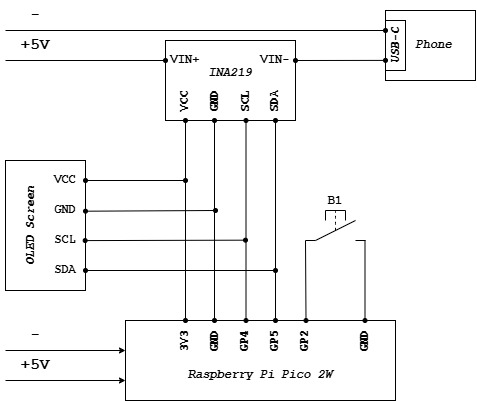
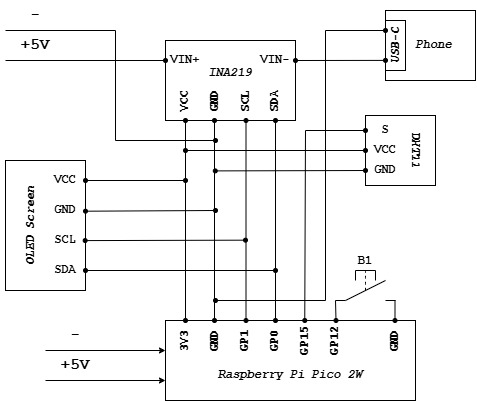
readme update

diff --git a/logging server/server.py b/logging server/server.py
@@ -1,7 +1,7 @@
 import socket
 
 srv = socket.socket()
-srv.bind(("192.168.100.13", 5000))
+srv.bind(("LAPTOP_IP", 5000))
 srv.listen(1)
 conn, addr = srv.accept()
 print(f"Connected: {addr}")

diff --git a/README.md b/README.md
@@ -1,2 +1,111 @@
-# -Characterizing-mobile-security-platforms-using-a-low-cost-pico-2w-power-profiler
-Code, schematics and tutorial for “Characterizing Mobile Security Platforms Using a Low-Cost Pico 2W Power Profiler”
+# Characterizing Mobile Security Platforms Using a Low-Cost Pico 2W Power Profiler
+
+Companion repository for the ICEECS-2026 conference paper. Contains the MicroPython firmware, logging server, Jupyter analysis notebook, 3D-printable case, wiring schematic, and raw experimental data.
+
+![Overlay comparison of Wi-Fi vs Ethernet power draw](analysis/overlay_comparison.png)
+
+## What this project does
+
+A Raspberry Pi Pico 2 W paired with a Texas Instruments INA219 current/voltage sensor measures how much power a smartphone draws during security scanning. The instrument sits inline on the phone's USB-C VBUS line, samples voltage and current at 1 Hz, and streams the readings over Wi-Fi to a Python logging server. A small OLED screen on the device shows live graphs of current, voltage, and power; a DHT11 sensor records ambient temperature and humidity alongside each sample.
+
+The instrument was used to profile a Samsung Galaxy A12 running full TCP port scans (`nmap -sT -T4 -p 1-65535`) over Wi-Fi and over USB Ethernet, and then the two transport paths were compared in terms of instantaneous power and total energy per scan.
+
+**Main finding:** Ethernet draws 4.6× more instantaneous power (3753 mW vs 811 mW), but finishes 41.8× faster (~110 s vs ~4600 s). The result is that each Ethernet scan consumes roughly 9× less total energy (413 J vs 3726 J) than the same scan over Wi-Fi.
+
+## Hardware
+
+| Component | Role |
+|---|---|
+| Raspberry Pi Pico 2 W (RP2350) | Measurement controller, Wi-Fi data transport |
+| INA219 breakout (0.1 Ω shunt) | Inline VBUS current and voltage sensing (I2C) |
+| SSD1306 0.96″ OLED (128×64) | Live graph and readout display (I2C) |
+| DHT11 | Ambient temperature and humidity logging |
+| Push button | Cycles OLED display mode |
+| USB-C breakout board | Taps into the phone's VBUS line |
+
+Total parts cost: approximately $9–40 USD depending on the region and source.
+
+The wiring diagram is in [`power monitor/electricalScheme.jpg`](power%20monitor/electricalScheme.jpg).
+
+## Repository layout
+
+```
+firmware/
+  main.py              // MicroPython firmware for the Pico 2 W
+logging server/
+  server.py             // Python TCP server that writes incoming samples to CSV
+analysis/
+  power_profiler_analysis.ipynb  // Jupyter/Colab notebook for processing the CSVs
+  *.png                 // Pre-rendered plots (overlay, boxplot, ambient, all runs)
+tests/
+  wifi/                 // 3 Wi-Fi scan runs: CSV data + Nmap result screenshots
+  ethernet/             // 3 Ethernet scan runs: CSV data + Nmap result screenshots
+case/
+  box.stl, lid.stl      // 3D-printable enclosure
+power monitor/
+  electricalScheme.jpg  // Wiring diagram
+```
+
+## Getting started
+
+### 1. Flash the Pico 2 W
+
+Install the [MicroPython UF2 for Pico 2 W](https://micropython.org/download/RPI_PICO2_W/) on the board.
+
+Copy the following libraries to the Pico's filesystem (install via `mip` or copy manually):
+
+- `ina219.py` — [INA219 MicroPython driver](https://github.com/chrisb2/pi_ina219)
+- `ssd1306.py` — SSD1306 I2C OLED driver (available via `micropython-ssd1306`)
+
+### 2. Create `config.json`
+
+The firmware loads network settings from a `config.json` file on the Pico. Create it with your own values:
+
+```json
+{
+  "ssid": "YourNetworkName",
+  "password": "YourPassword",
+  "laptop_ip": "192.L",
+  "port": 5000
+}
+```
+
+### 3. Start the logging server
+
+On the machine that will collect data:
+
+```bash
+python3 "logging server/server.py"
+```
+
+Edit the `srv.bind(...)` address in `server.py` to match your machine's local IP. The server listens on port 5000 and writes every received line to `logs.csv`.
+
+### 4. Wire up and power on
+
+Connect the hardware according to the wiring diagram, power on the Pico and then the phone charger. The OLED will show "Connecting..." until it joins the network, then begin displaying live power graphs. Press the button to cycle through current, voltage, power, and text display modes.
+
+### 5. Analyze the data
+
+Open [`analysis/power_profiler_analysis.ipynb`](analysis/power_profiler_analysis.ipynb). The notebook loads the CSVs from `tests/`, computes per-run and per-group statistics, and produces comparison plots.
+
+## CSV format
+
+Each line from the instrument:
+
+```
+timestamp_ms,voltage_V,current_mA,power_mW,ambient_temp_C,ambient_humidity_%
+```
+
+Timestamps are `time.ticks_ms()` values from the Pico's internal clock (relative, not wall-clock).
+
+## Experimental conditions
+
+- **Device under test:** Samsung Galaxy A12 (SM-A125F), Android, running Termux
+- **Scan command:** `nmap -sT -T4 -p 1-65535 <target>`
+- **Wi-Fi:** 3 runs, 3551–5422 s each, mean power 811 mW
+- **Ethernet:** 3 runs, 105–115 s each, mean power 3753 mW (via USB-C OTG adapter)
+- **Ambient:** ~20 °C, 69–71% humidity
+
+## License
+
+This project accompanies an academic paper. If you use the code, data, or design in your own work, please cite the paper.
